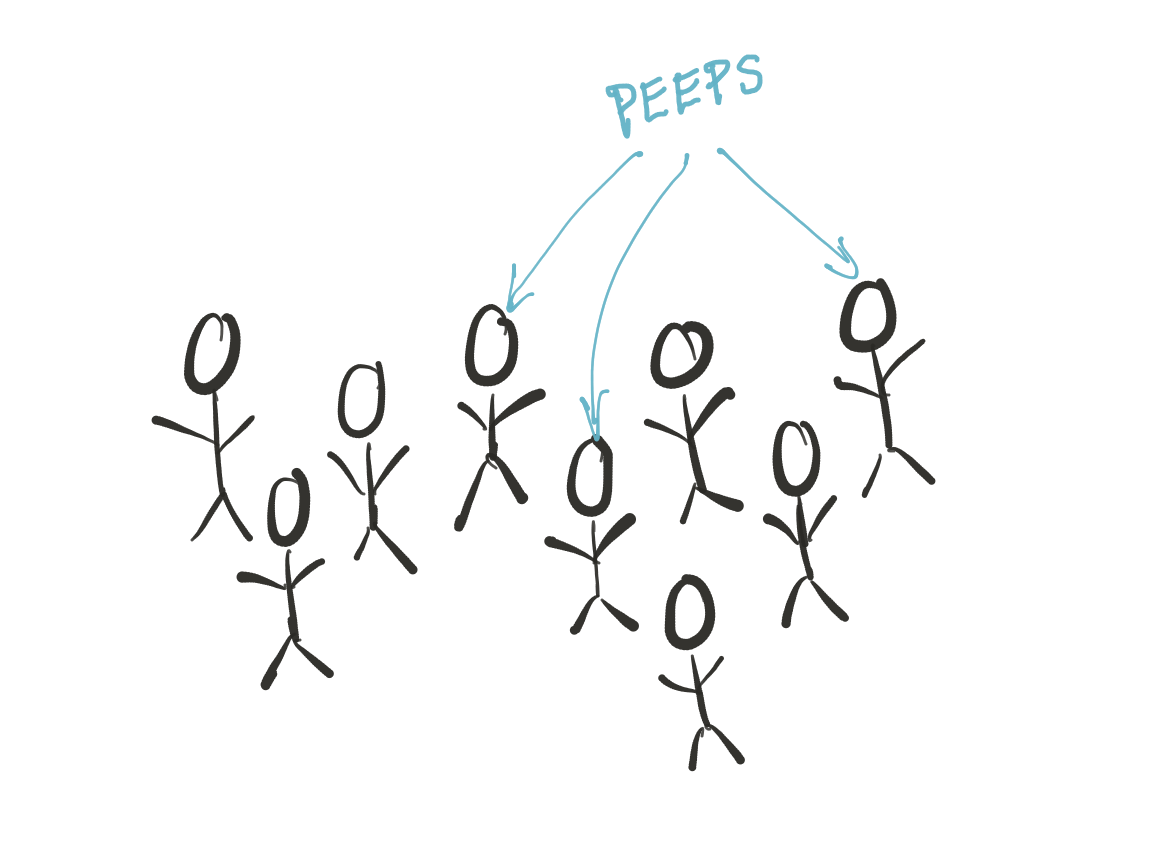
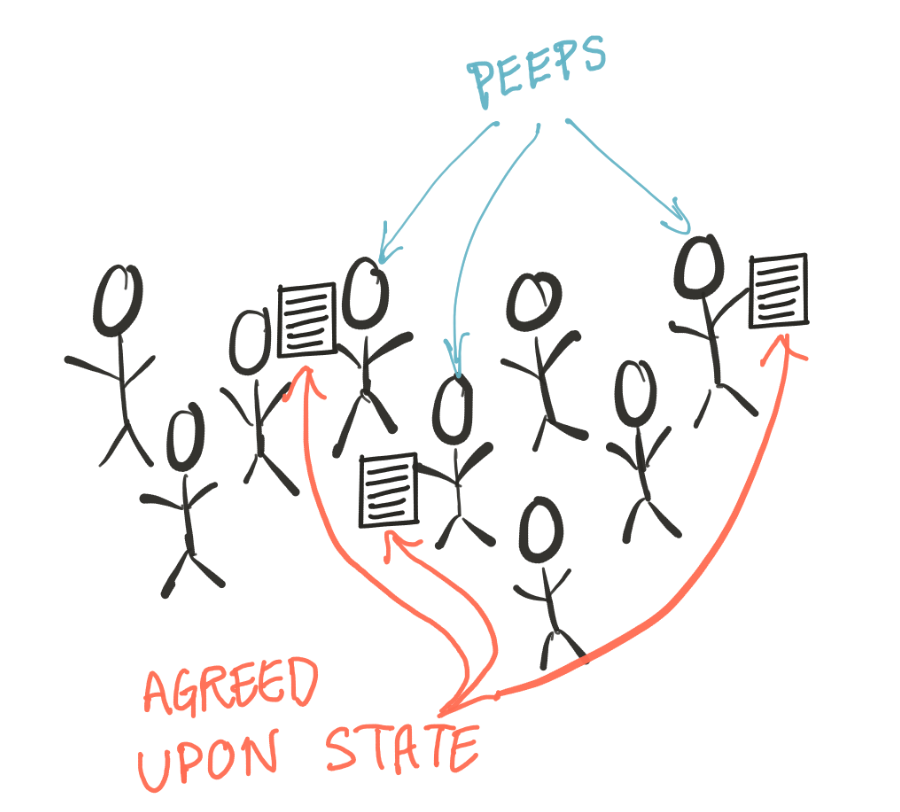
Fixing some spelling errors

diff --git a/_layouts/post.html b/_layouts/post.html
@@ -72,7 +72,7 @@ post_class: post-template
                     <h4> {{ site.author }} </h4>
                     <!-- Author Bio -->
                     <p>
-                        Oslo, Norway. Want to get in touch? You could try and tweet at my stale twitter account. <a href="https://twitter.com/intent/tweet?screen_name=williamrode" class="twitter-mention-button" data-show-count="false">Tweet to @williamrode</a><script async src="//platform.twitter.com/widgets.js" charset="utf-8"></script>
+                        Oslo, Norway. Want to get in touch? You could try and tweet at my stale twitter account. Or you could leave a comment below <a href="https://twitter.com/intent/tweet?screen_name=williamrode" class="twitter-mention-button" data-show-count="false">Tweet to @williamrode</a><script async src="//platform.twitter.com/widgets.js" charset="utf-8"></script>
                     </p>
                 </section>
             {% endif %}

diff --git a/_posts/2016-08-06-Blockchain.md b/_posts/2016-08-06-Blockchain.md
@@ -11,7 +11,7 @@ There, now you know that. The problem is, if you are like most people this sente
 
 
 <!--more-->
-In some circles, Blockchain is so hot right now, it´s the talk of the town. But even though there is a lot of discussion about Blockchain technology, few people actually understand what this thing is. Or more importantly - what it can become.
+In some circles, blockchain is so hot right now, it´s the talk of the town. But even though there is a lot of discussion about blockchain technology, few people actually understand what this thing is. Or more importantly - what it can become.
 
 Most explanations of blockchain are full of IT jargon. So unless you know IT, the explanations don´t really help. In this post I try to explain blockchain without the IT part, and why it is such a big deal. First however, I will go on what seems like a tangent - bear with me.
 
@@ -23,7 +23,7 @@ Agreement is nice. Whether its agreeing about the best football team, what chees
 
 ...*more than one agreement here*
 
-Different types of agreement have varying degrees of societal consequence. Some subjects are unimportant to reach an agreement about. As an example, it is not very important that you agree with your friend about the best tasting cheese. In this case, you can agree to disagree, and go off eating the cheese that you prefer. Other things are a little more important, say that you are a couple that can only afford to buy one type of cheese. If you don´t agree about what cheese to buy, hard feelings and arguments may pursue. But for society as a whole, agreement here is still not very important. On the other end of the scale there are things which are really important for a society as a whole to agree about in order to function. <!--Dont like the last sentence here-->One such thing is agreeing about language and the meaning of words.
+Different types of agreement have varying degrees of societal consequence. Some subjects are unimportant to reach an agreement about. As an example, it is not very important that you agree with your friend about the best tasting cheese. In this case, you can agree to disagree, and go off eating the cheese that you prefer. Other things are a little more important, say that you are a couple that can only afford to buy one type of cheese. If you don´t agree about what cheese to buy, hard feelings and arguments may pursue. But for society as a whole, agreement here is still not very important. On the other end of the scale there are things that are really important for a society as a whole to agree about in order to function. <!--Dont like the last sentence here-->One such thing is agreeing about language and the meaning of words.
 
 ![Consequences for society]({{ site.url }}/assets/images/ConsequencesForSociety.png)
 
@@ -41,9 +41,9 @@ The agreement about agreements is know as contract law. Modern societies have a 
 
 #### Ownership
 
-Another subject which is important to reach agreement about is whether people in the society *can* own things at all. This may seem like a no brainer, but its not actually a given, take some of the hippy [communes](https://en.wikipedia.org/wiki/Commune) as an example.
+Another subject that is important to reach agreement about is whether people in the society *can* own things at all. This may seem like a no brainer, but its not actually a given, take some of the hippy [communes](https://en.wikipedia.org/wiki/Commune) as an example.
 
-Once you have established the agreement that individuals can own things, the next step is to make sure there is agreement about who owns what. For some things, such as the personal property which I wear - it´s pretty clear. If I make some sandals out of hemp, they are either on my feet or in my apartment. It is also not the end of the world if I happened to lose them. Likewise, it sucks to lose other pieces of clothing, my wallet, my playstation controller etc. but again, it´s not the end of the world, life goes on. 
+Once you have established the agreement that individuals can own things, the next step is to make sure there is agreement about who owns what. For some things, such as the personal property which I wear - it´s pretty clear. If I make some sandals out of hemp, they are either on my feet or in my apartment. It is also not the end of the world if I happened to lose them. Likewise, it sucks to lose other pieces of clothing, my wallet, my PlayStation controller etc. but again, it´s not the end of the world, life goes on. 
 
 Then there are the *big things*. Things that really do impact you if you lose them. An example of a big thing is the apartment that you own. Losing that apartment would be life changing. If it was possible to steal an apartment in the same way that you could steal a purse, then that is what thiefs would be doing because that is were the big bucks would be. People would be spending their time protecting their apartment, and society as a whole would not function well. Therefore, for the *big things*, it is important that society agrees about who owns what.
 
@@ -58,7 +58,7 @@ This problem is solved by the government owning a central registry of who owns w
 
 <!--Could talk about the different types of registers here. How ancients used stone tablets or Quipus as their registreries-->
 
-- Governments keep track of veichle ownership using a registry of registration plates.
+- Governments keep track of vehicle ownership using a registry of registration plates.
 - Kennel clubs keep track of who owns what dog through a breed registry.
 - The nonprofit organization ICANN keeps track of who owns what internet domain names. 
 - A bank keeps an up to date ledger with the balance of account holders.
@@ -81,7 +81,7 @@ Instead of the central authority owning a single document that captures the agre
 
 ![Peeps]({{ site.url }}/assets/images/Peeps.png)
 
-Ofcourse, the agreed upon state *should* not vary between the Peeps -> then there would not be agreement. In order to ensure that all the Peeps have the same agreement documented, they would need to meet, document the state, and then sign eachothers document. This might be fine if the agreement in question did not change, or if only changed once every 10 years. The problem arises when you have an agreement which changes often. If all the Peeps needed to meet, update and sign a new version of the document every time someone makes a bank transaction, this system would be extremely inefficient.
+Of course, the agreed upon state *should* not vary between the Peeps -> then there would not be agreement. In order to ensure that all the Peeps have the same agreement documented, they would need to meet, document the state, and then sign each others document. This might be fine if the agreement in question did not change, or if only changed once every 10 years. The problem arises when you have an agreement which changes often. If all the Peeps needed to meet, update and sign a new version of the document every time someone makes a bank transaction, this system would be extremely inefficient.
 
 <!--
     The society as a whole would need to agree that most of the peeps were honest
@@ -100,7 +100,7 @@ Imagine if all the Peeps have a copy of an enchanted document with the agreed up
 1. The document has a set of rules which need to be followed in order to make an update to the agreed upon state.
 2. If an update is made to one of the enchanted documents in accordance to the rules, this update will magically be applied to all the other enchanted documents.
 
-These magic properties ensure that all the Peeps have an identical and up-to-date copy of the agreement. There is no central authority which owns the definitive agreed upon state, all the Peeps have their own a copy of this state. This is why Blockchains are refered to as decentralized, there is no central controller of the truth.
+These magic properties ensure that all the Peeps have an identical and up-to-date copy of the agreement. There is no central authority which owns the definitive agreed upon state, all the Peeps have their own a copy of this state. This is why Blockchains are referred to as decentralized; there is no central controller of the truth.
 
 ![Enchanted documents]({{ site.url }}/assets/images/enchantedDocuments.png)
 
@@ -121,14 +121,14 @@ This rule implicitly states that you cannot increase your own balance, it can on
 
 ### Back to Blockchains
 
-Blockchains are ofcourse not based on magic, but on a high conceptual level, this simplification is good enough. Blockchains, like sets of enchanted documents, can follow different rules about how to update the agreed upon state.
+Blockchains are of course not based on magic, but on a high conceptual level, this simplification is good enough. Blockchains, like sets of enchanted documents, can follow different rules about how to update the agreed upon state.
 
 In the example above, the rules of the enchanted documents create a currency, and the agreement specifies ownership of said currency. In the non-magic world of reality, the most famous example of this type of blockchain is Bitcoin.
 <!--mIt is important to note that the only reason Bitcoin has any value, is because people believe that bitcoin is valuable, and are willing to exchange bitcoin for dollars or euros-->
 
 Another set of enchanted documents could be defined by rules about how to handle agreements which are written on the enchanted document. The enchantment would ensure that any agreement written on the enchanted document was upheld. Blockchains with these rules also exists, the most famous of which is called Ethereum. Agreements, written as code, can be uploaded to the blockchain.  In a world of magic, these agreements would ensure that the agreement was upheld in the physical world - not only on the enchanted document. In reality, a blockchain does not yet have any legal precedence outside the blockchain - and so an agreement on a blockchain can only be enforced on the blockchain.
 
-Agreements on the blockchain have been named *Smart Contracts* and deserve a blogpost of their own.
+Agreements on the blockchain have been named *Smart Contracts* and deserve a blog post of their own.
 
 <!-- 
 Talk about the weak link between the blockchain and the real world. For example, that scarcity of a certain type of token. And this only has value in the real world because people are willing to pay a price for it.
